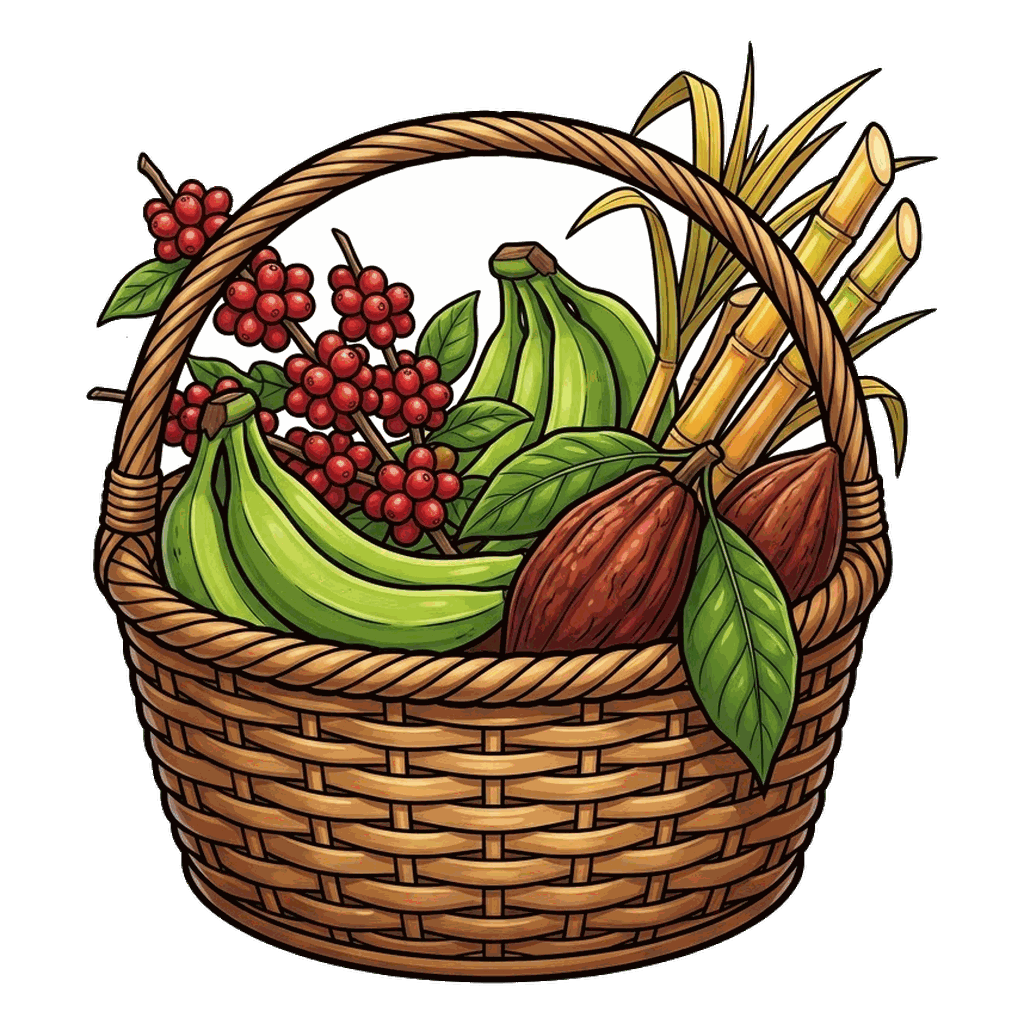
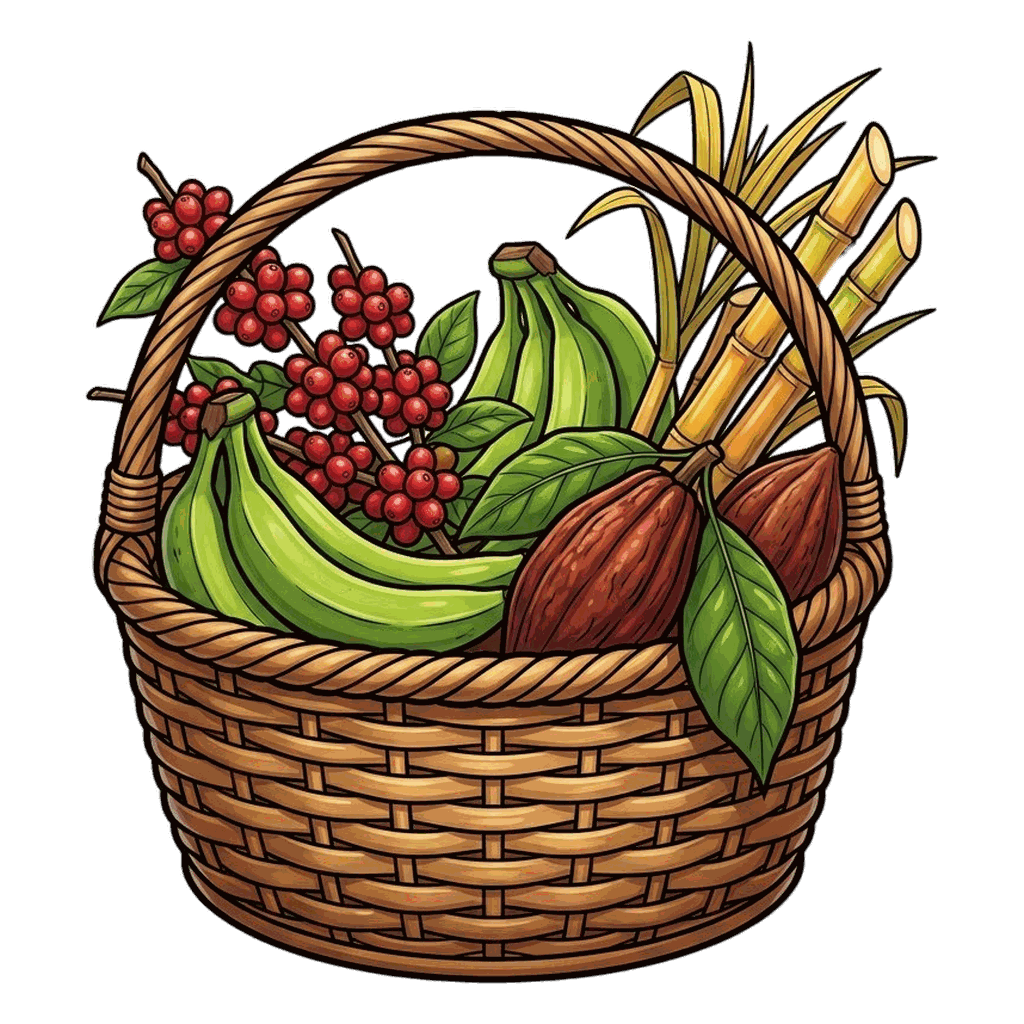
Mi finca con sus ilustraciones
- Las 19 piezas de la finca (matas, construcciones y productos) en el juego,
  recortadas al dibujo para pararlas sobre el terreno
- prepara-cartas.py: las piezas m_* y b_* se recortan sin cuadrado y a 512 px
- Nuevas c_huerta y e_mercado_campesino
- La finca ajusta tamaños y lugares a las ilustraciones; el café pergamino y
  los huevos usan su dibujo

Claude-Session: https://claude.ai/code/session_018WF81QxXjwt7KXbbpmrECt

diff --git a/public/vereda/finca.js b/public/vereda/finca.js
@@ -70,8 +70,13 @@ const arte = k => A.arteDe(k);
 const dibCultivo = c => arte("c_" + c) || A.dibujoCultivo(c);
 const dibPlaga = c => arte("p_comun_" + c) || A.ilustracion({ k: "plaga", c, t: "comun" }, R.CULTIVO[c].hex);
 const dibRemedio = c => arte("r_casero_" + c) || A.ilustracion({ k: "remedio", c, t: "casero" }, R.CULTIVO[c].hex);
-const dibProducto = p => p === "huevos" ? (arte("pr_huevos") || `<span style="font-size:40px;line-height:1">🥚</span>`) : dibCultivo(p);
-const ancho = (html, w) => html.replace(/^<(img|svg)\b/, `<$1 style="width:${w}px;height:auto;max-height:${Math.round(w * 1.25)}px"`);
+const dibProducto = p => p === "huevos" ? (arte("pr_huevos") || `<span style="font-size:40px;line-height:1">🥚</span>`)
+  : p === "cafe" && F.edificios.secadero ? (arte("pr_pergamino") || dibCultivo(p)) : dibCultivo(p);
+/* Las ilustraciones conservan su forma (las matas son más altas que anchas);
+   los dibujos de respaldo, cuadrados, se limitan para que no crezcan de más. */
+const ancho = (html, w) => html.startsWith("<img")
+  ? html.replace(/^<img\b/, `<img style="width:${w}px;height:auto"`)
+  : html.replace(/^<(svg|span)\b/, `<$1 style="width:${w}px;height:auto;max-height:${Math.round(w * 1.25)}px"`);
 const conMoneda = n => `<span class="precio">${MONEDA}${n}</span>`;
 const plural = (n, [uno, varios]) => n + " " + (n === 1 ? uno : varios);
 const mmss = ms => { const s = Math.ceil(ms / 1000); return s >= 60 ? Math.floor(s / 60) + ":" + String(s % 60).padStart(2, "0") : s + " s"; };
@@ -80,7 +85,7 @@ const mmss = ms => { const s = Math.ceil(ms / 1000); return s >= 60 ? Math.floor
 const W = 640, H = 420, OX = 320, OY = 150, AW = 80, AH = 40;
 const centro = i => { const a = i % 3, b = Math.floor(i / 3); return [OX + (a - b) * AW, OY + (a + b) * AH]; };
 const rombo = (x, y) => `${x},${y - AH} ${x + AW},${y} ${x},${y + AH} ${x - AW},${y}`;
-const LUGARES = { casa: [128, 176], puesto: [516, 178], tablero: [596, 300], secadero: [92, 352], gallinero: [548, 392] };
+const LUGARES = { casa: [124, 184], puesto: [520, 186], tablero: [606, 282], secadero: [88, 384], gallinero: [536, 414] };
 function tierra() {
   let s = `<svg class="tierra" viewBox="0 0 ${W} ${H}" aria-hidden="true">
     <path d="M304 300 C 290 350, 340 380, 300 ${H} L 360 ${H} C 380 380, 340 350, 340 300 Z" fill="#CDB27A" opacity=".9"/>`;
@@ -102,17 +107,20 @@ function mataHTML(i) {
   if (!e) return "";
   const [x, y] = centro(i);
   let dib, w;
-  if (e.muerta) { dib = SECA; w = 60; }
-  else if (e.etapa === 1) { dib = arte("m_semilla") || MONTICULO; w = 56; }
-  else if (e.etapa === 2) { dib = arte("m_brote") || BROTE; w = 58; }
-  else if (e.etapa === 3) { dib = arte("m_" + m.c + "_crece") || dibCultivo(m.c); w = 62; }
-  else { dib = arte("m_" + m.c + "_lista") || dibCultivo(m.c); w = 96; }
+  /* Tamaños en el terreno (cada surco mide 160 de ancho). La huerta es un
+     cajón ancho y bajito; las demás, matas paradas. */
+  const ancha = m.c === "huerta";
+  if (e.muerta) { const d = arte("m_" + m.c + "_crece"); dib = d || SECA; w = d ? (ancha ? 124 : 74) : 60; }
+  else if (e.etapa === 1) { dib = arte("m_semilla") || MONTICULO; w = arte("m_semilla") ? 72 : 56; }
+  else if (e.etapa === 2) { dib = arte("m_brote") || BROTE; w = arte("m_brote") ? 76 : 58; }
+  else if (e.etapa === 3) { const d = arte("m_" + m.c + "_crece"); dib = d || dibCultivo(m.c); w = d ? (ancha ? 124 : 80) : 62; }
+  else { const d = arte("m_" + m.c + "_lista"); dib = d || dibCultivo(m.c); w = d ? (ancha ? 132 : 106) : 96; }
   const insignia = e.muerta ? "" : e.plagada ? `<span class="f-insignia plaga">${dibPlaga(m.c)}</span>`
     : e.etapa === 4 ? `<span class="f-insignia lista">✓</span>` : "";
   const reloj = e.muerta ? `<span class="f-reloj peligro">${e.muerta === "seca" ? "se secó" : "se marchitó"}</span>`
     : e.plagada ? `<span class="f-reloj peligro" data-muere="${e.muere}">${mmss(e.muere - ahora())}</span>`
     : e.etapa < 4 ? `<span class="f-reloj" data-lista="${m.t0 + m.dur}">${mmss(e.resta)}</span>` : "";
-  return `<div class="f-mata ${e.muerta ? "seca" : e.plagada ? "plagada" : ""}" style="left:${x}px;top:${y + 16}px;z-index:${Math.round(y)}">
+  return `<div class="f-mata ${e.muerta ? "seca" : e.plagada ? "plagada" : ""}" style="left:${x}px;top:${y + (arte("m_brote") ? 26 : 16)}px;z-index:${Math.round(y)}">
     ${reloj}<span class="dib" style="position:relative">${ancho(dib, w)}${insignia}</span></div>`;
 }
 /* La firma de lo que se ve: si no cambia, no se vuelve a pintar el terreno. */
@@ -132,9 +140,9 @@ function pintarTerreno(forzar) {
   const mundo = document.getElementById("mundo"); if (!mundo) return;
   const h = FI.huevos(F, ahora());
   mundo.innerHTML = tierra() +
-    edificio("casa", CASA, 150) + edificio("puesto", PUESTO, 118) + edificio("tablero", TABLERO, 84) +
-    (F.edificios.secadero ? edificio("secadero", SECADERO, 118) : "") +
-    (F.edificios.gallinero ? edificio("gallinero", GALLINERO, 104, h ? `<span class="f-insignia huevo">🥚</span>` : "") : "") +
+    edificio("casa", CASA, arte("b_casa") ? 176 : 150) + edificio("puesto", PUESTO, arte("b_puesto") ? 128 : 118) + edificio("tablero", TABLERO, arte("b_tablero") ? 78 : 84) +
+    (F.edificios.secadero ? edificio("secadero", SECADERO, arte("b_secadero") ? 140 : 118) : "") +
+    (F.edificios.gallinero ? edificio("gallinero", GALLINERO, arte("b_gallinero") ? 118 : 104, h ? `<span class="f-insignia huevo">${arte("pr_huevos") ? ancho(arte("pr_huevos"), 30) : "🥚"}</span>` : "") : "") +
     F.lotes.map((_, i) => mataHTML(i)).join("") +
     F.lotes.map((_, i) => { const [x, y] = centro(i); return `<button class="f-lote" data-lote="${i}" style="left:${x}px;top:${y}px;z-index:1000" aria-label="Surco ${i + 1}"></button>`; }).join("");
   mundo.querySelectorAll("[data-lote]").forEach(b => b.onclick = () => tocarLote(+b.dataset.lote));

diff --git a/prepara-cartas.py b/prepara-cartas.py
@@ -14,6 +14,10 @@ todas —así se ven del mismo tamaño en la mesa— y lo guarda en paleta de 25
 colores, que pesa una décima parte y en carta no se nota.
 
 Los avatares (a_*) no se recortan: son bustos y el encuadre ya es el retrato.
+
+Las piezas de Mi finca (m_* matas, b_* construcciones) se recortan justo al
+dibujo, sin cuadrado ni margen: van paradas sobre el terreno y la base del
+dibujo tiene que quedar en el borde de abajo. Se guardan a 512 px.
 """
 import os, sys
 import numpy as np
@@ -99,6 +103,18 @@ os.makedirs(DESTINO, exist_ok=True)
 for f in sorted(os.listdir(ORIGEN)):
     if not f.lower().endswith(".png"): continue
     im = Image.open(os.path.join(ORIGEN, f))
+    if f.startswith(("m_", "b_")):
+        im, quitado = quitar_fondo(im)
+        a = np.asarray(im).copy(); a[..., 3] = np.where(a[..., 3] < 24, 0, a[..., 3])   # el halo tenue del recorte
+        im = Image.fromarray(a, "RGBA")
+        caja = im.getchannel("A").getbbox()
+        if caja: im = im.crop(caja)
+        k = 512 / max(im.size)
+        im = im.resize((max(1, round(im.size[0] * k)), max(1, round(im.size[1] * k))), Image.LANCZOS)
+        ruta = os.path.join(DESTINO, f)
+        im.quantize(colors=256, method=Image.Quantize.FASTOCTREE).save(ruta, optimize=True)
+        print(f"  {f:28s} pieza de la finca {im.size[0]}×{im.size[1]}   {os.path.getsize(ruta)//1024:4d} KB")
+        continue
     if f.startswith("a_"):
         # Avatares: se respeta el encuadre del retrato (el juego lo recorta en
         # círculo). Solo se quita el fondo si viene en blanco liso, como pasa

diff --git a/GUIA-ILUSTRACIONES.md b/GUIA-ILUSTRACIONES.md
@@ -13,7 +13,17 @@ diagonal**, como en los juegos de granja, para ponerlos sobre el terreno.
 
 ## Estado (7 de octubre)
 
-- **Mi finca:** 0 de 19.
+- **Mi finca: 19 de 19, listas y en el juego** (7 de octubre). Quedaron en `public/cartas/`,
+  recortadas al dibujo para que se paren sobre el terreno.
+- **Llegaron también** `c_huerta.png` y `e_mercado_campesino.png` nuevas, y ya reemplazaron a las
+  anteriores.
+- **Para repetir si quieres** (no bloquean):
+  - `m_huerta_lista.png` se ve casi igual a `m_huerta_crece.png`. La lista debería verse frondosa,
+    con tomates rojos grandes, cebollas largas y lechugas abiertas, para que se note que ya se puede
+    cosechar.
+  - `c_huerta.png` quedó casi igual a `e_mercado_campesino.png` (los dos son un canasto con café,
+    plátano y caña). En Pedidos del pueblo salen juntos y se confunden. La huerta debería mostrar
+    lo de la huerta: cebolla larga, tomate, cilantro, lechuga.
 - **Hechas antes:** los 18 avatares y los 7 dibujos del espantapájaros. Ese minijuego salió del
   mapa, pero la gallina, el ternero, la abeja y los demás animales se usarán en Mi finca.
 
